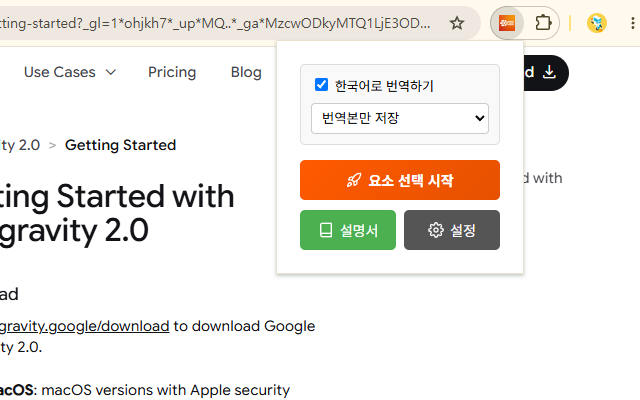
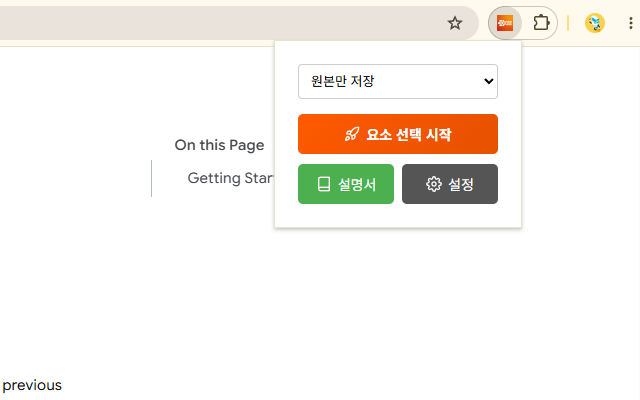
docs: 제품 세부정보 문서 추가 및 확장 프로그램 버전 업데이트
- 스토어 제출 및 프로젝트 소개 목적으로 활용될 제품 세부정보(product_details.md) 문서 신규 생성 및 최신 기능 명세 반영
- 최근 추가된 핵심 기능(우클릭 영역 추출, 미리보기, 번역 모드 분리 등)을 반영하여 manifest.json의 버전을 1.1로 판올림
- 스토어 등록 및 소개에 필요한 스크린샷(screen_shot.png) 및 썸네일 리소스 등 스테이징된 바이너리 파일 업데이트

diff --git a/product_details.md b/product_details.md
@@ -1,0 +1,19 @@
+HTML to MD Saver는 웹 서핑 중 발견한 유용한 정보, 문서, 코드 블록 등을 손쉽게 마크다운(Markdown, .md) 파일로 추출해 주는 강력하고 직관적인 크롬 확장 프로그램입니다. 마우스 클릭이나 드래그 한 번으로 원하는 영역만 깔끔하게 저장하여 나만의 지식 저장소를 구축하거나, AI 에이전트에게 최신 지식을 제공해 보세요!
+
+[ 🌟 이런 분들께 강력 추천합니다! ]
+- 🤖 AI 에이전트(Claude, Cursor, Antigravity 등)에게 웹 페이지 기반의 최신 공식 문서나 레퍼런스를 직접 학습(Context)시키고 싶으신 분
+- 💻 개발 레퍼런스와 소스 코드를 자주 스크랩하시는 개발자
+- 📝 노션, 옵시디언, 깃허브 등으로 지식을 관리하시는 분
+- 🌍 유용한 해외 아티클을 번역하고 정리하는 블로거 및 기획자
+
+[ ✨ 주요 기능 및 특징 ]
+1. AI 컨텍스트용 마크다운 최적화: 복잡한 웹 페이지에서 AI가 읽기 가장 좋은 포맷인 마크다운으로 핵심 요소만 깔끔하게 추출하여 AI 프롬프트나 컨텍스트 파일로 바로 활용할 수 있습니다.
+2. 직관적인 요소 선택 & 다중 선택: 마우스 커서를 올리면 캡처될 영역이 시각적으로 하이라이트되며, Shift 키를 누른 상태로 여러 요소를 클릭하면 분산된 정보들을 한 번에 스크랩하여 병합할 수 있습니다.
+3. 드래그(우클릭) 영역 추출: 복사 방지나 투명 오버레이가 적용된 사이트에서도 텍스트를 드래그한 후 우클릭 메뉴를 통해 원하는 부분만 강력하고 빠르게 스크랩할 수 있습니다.
+4. 미리보기(Preview) 모달창: 파일을 다운로드하기 전에 추출 및 번역된 마크다운 텍스트 결과물을 화면에서 즉시 확인하고 검토할 수 있습니다.
+5. AI 기반 유연한 자동 번역: Gemini API와 연동하여 한국어 자동 번역을 지원합니다. 원본만, 번역본만, 원본+번역본 교차 저장 등 3가지 모드를 제공하며, 설정 페이지의 영구 저장 모드와 우클릭/팝업의 일회성 선택 모드를 완벽하게 분리하여 편의성을 극대화했습니다.
+6. GFM(GitHub Flavored Markdown) 완벽 지원: 기본 마크다운 문법뿐만 아니라 표(Table) 등의 복잡한 GFM 문법도 레이아웃 깨짐 없이 완벽하게 변환합니다.
+7. 코드 블록 포맷팅 보존: 원본 페이지의 소스 코드 줄바꿈과 들여쓰기를 훼손하지 않고, 깔끔한 펜스 코드 블록(```) 형태로 온전히 유지합니다.
+8. 스마트 링크 변환: 원본 페이지에서 상대 경로로 지정된 링크 및 이미지 주소를 절대 경로로 자동 변환하여, 저장된 파일에서 링크가 깨지는 현상을 방지합니다.
+
+복잡하고 번거로운 복사 붙여넣기 대신, HTML to MD Saver로 쾌적하고 스마트한 웹 스크랩과 AI 코파일럿 환경을 경험해 보세요!